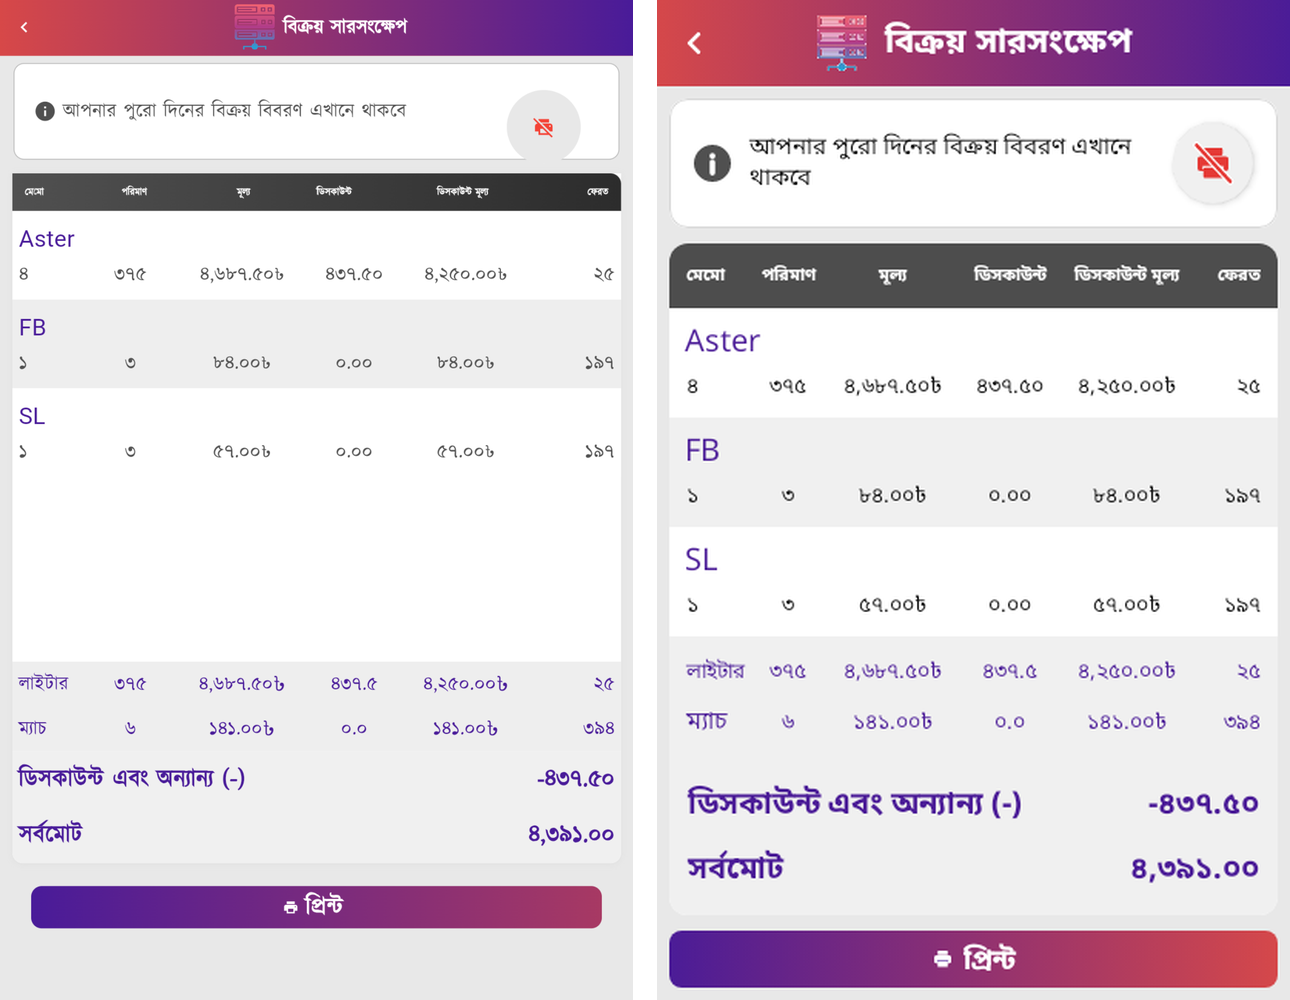
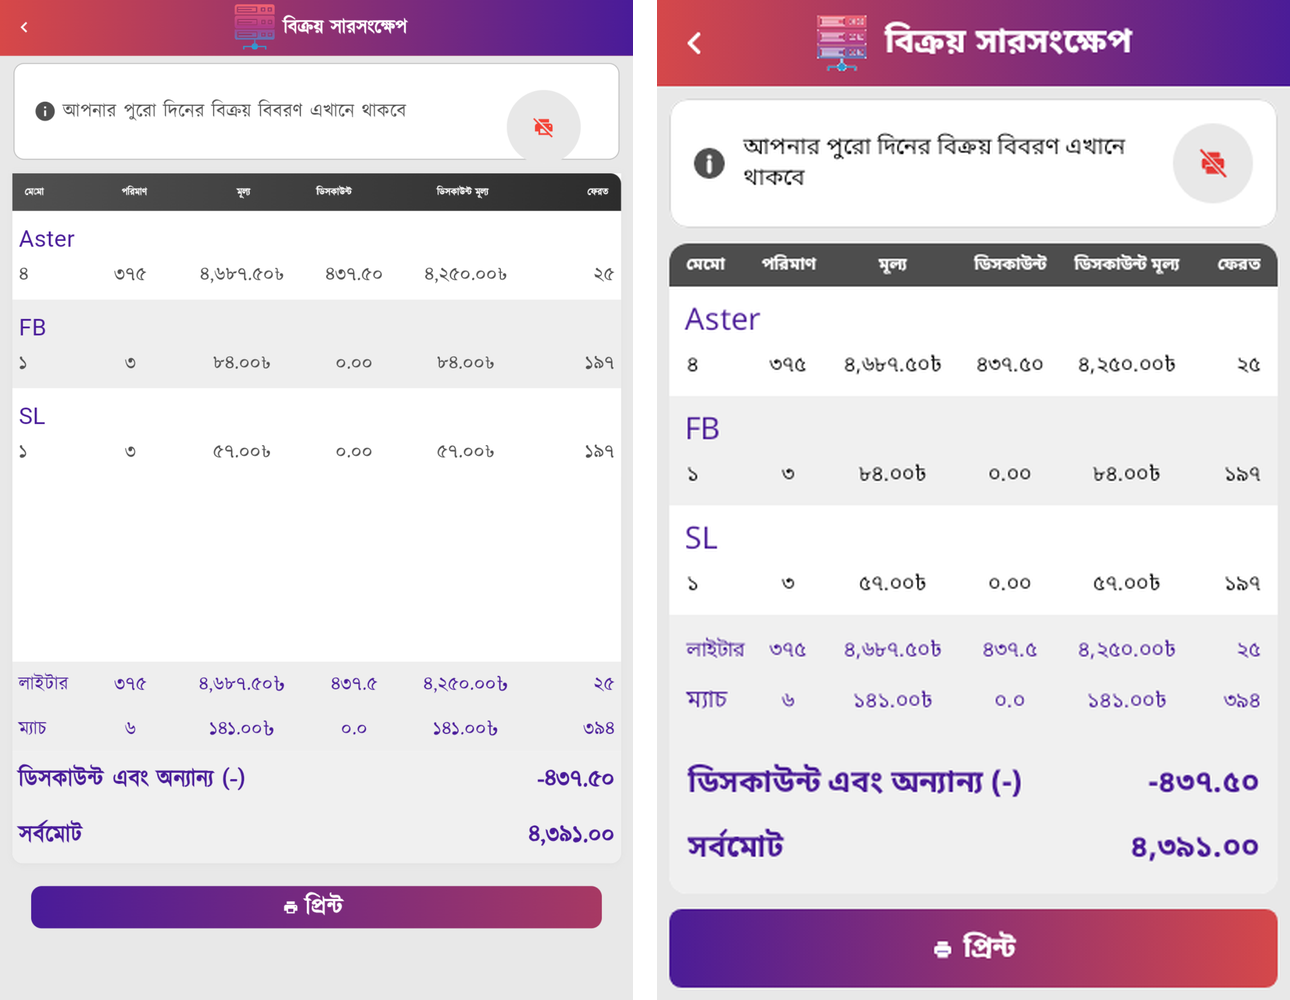
ui-kit: flat in-card printer badge and tighter summary header, as on sr/summary.png
AronPrinterBadge draws its flat grey form with a 20 dp printer when it sits in AronInfoCard's trailing slot
(automatic through a private composition local; no screen change). AronInfoCard "i" 20 dp. SummaryTable header
row padding 7 dp (about 25 units on the reference). Evidence rebuilt; sale-select scale note logged.

Claude-Session: https://claude.ai/code/session_012DWzsWtYJkEcYzFUUfg1sn

diff --git a/android/core-ui/src/main/kotlin/com/aktcl/aron/core/ui/aron/Chrome.kt b/android/core-ui/src/main/kotlin/com/aktcl/aron/core/ui/aron/Chrome.kt
@@ -31,6 +31,8 @@ import androidx.compose.foundation.shape.CircleShape
 import androidx.compose.foundation.shape.RoundedCornerShape
 import androidx.compose.material3.Text
 import androidx.compose.runtime.Composable
+import androidx.compose.runtime.CompositionLocalProvider
+import androidx.compose.runtime.staticCompositionLocalOf
 import androidx.compose.ui.Alignment
 import androidx.compose.ui.Modifier
 import androidx.compose.ui.draw.clip
@@ -143,24 +145,31 @@ fun AronTopBar(
 
 /**
  * The printer state at the end of the top bar (sr/stock.webp): a light round badge with a red crossed printer while no printer is
- * connected, a purple printer once one is. [label] is the TalkBack text of the state; tapping it opens the connect flow.
+ * connected, a purple printer once one is. [label] is the TalkBack text of the state; tapping it opens the connect flow. Inside an
+ * [AronInfoCard] it is drawn flat, grey and with a smaller printer, as on sr/summary.png.
  */
 @Composable
 fun AronPrinterBadge(connected: Boolean, label: String, onClick: () -> Unit, modifier: Modifier = Modifier) {
     val look = LocalAronLook.current
+    val inCard = LocalBadgeInCard.current
     Box(
         modifier
             .size(AronLook.Touch + 4.dp)
-            .shadow(3.dp, CircleShape)
+            .then(if (inCard) Modifier else Modifier.shadow(3.dp, CircleShape))
             .clip(CircleShape)
-            .background(look.rowAlt)
+            .background(if (inCard) look.page else look.rowAlt)
             .clickable(role = Role.Button, onClick = onClick)
             .semantics { contentDescription = label },
         contentAlignment = Alignment.Center,
     ) {
-        GlyphCanvas(Modifier.size(28.dp)) { printer(if (connected) look.printerOn else look.printerOff, crossed = !connected, gap = look.card) }
+        GlyphCanvas(Modifier.size(if (inCard) 20.dp else 28.dp)) {
+            printer(if (connected) look.printerOn else look.printerOff, crossed = !connected, gap = if (inCard) look.page else look.card)
+        }
     }
 }
+
+/** True inside [AronInfoCard]'s trailing slot: [AronPrinterBadge] draws its flat in-card form there. */
+private val LocalBadgeInCard = staticCompositionLocalOf { false }
 
 /**
  * The screen frame (PARITY-SPEC s2.2): the [topBar], the content on the light grey `aron.page` (white for the Home grid: [home]),
@@ -344,11 +353,11 @@ fun AronInfoCard(text: String, modifier: Modifier = Modifier, trailing: (@Compos
         modifier.fillMaxWidth().clip(shape).background(look.card).border(1.dp, look.underline.copy(alpha = 0.4f), shape).padding(16.dp),
         verticalAlignment = Alignment.CenterVertically,
     ) {
-        Box(Modifier.size(24.dp).clip(CircleShape).background(look.inkMuted), contentAlignment = Alignment.Center) {
-            GlyphCanvas(Modifier.size(24.dp)) { info(Color.White) }
+        Box(Modifier.size(20.dp).clip(CircleShape).background(look.inkMuted), contentAlignment = Alignment.Center) {
+            GlyphCanvas(Modifier.size(20.dp)) { info(Color.White) }
         }
         Text(text, style = lookStyle(15.sp, color = look.ink), modifier = Modifier.weight(1f).padding(horizontal = 12.dp))
-        trailing?.invoke()
+        if (trailing != null) CompositionLocalProvider(LocalBadgeInCard provides true) { trailing() }
     }
 }
 

diff --git a/android/core-ui/src/main/kotlin/com/aktcl/aron/core/ui/aron/Tables.kt b/android/core-ui/src/main/kotlin/com/aktcl/aron/core/ui/aron/Tables.kt
@@ -255,7 +255,8 @@ fun SummaryTable(
     val n = headers.size
     val w = weights ?: if (n == SummaryWeights6.size) SummaryWeights6 else List(n) { 1f }
     Column(modifier.fillMaxWidth().clip(RoundedCornerShape(AronLook.CardRadius)).background(look.card)) {
-        Row(Modifier.fillMaxWidth().background(look.tableHeader).padding(horizontal = 10.dp, vertical = 14.dp), verticalAlignment = Alignment.CenterVertically) {
+        // header row about 25 units tall on sr/summary.png: 7 dp padding keeps two-line headers inside 48 dp
+        Row(Modifier.fillMaxWidth().background(look.tableHeader).padding(horizontal = 10.dp, vertical = 7.dp), verticalAlignment = Alignment.CenterVertically) {
             headers.forEachIndexed { i, h ->
                 FitText(h, lookStyle(11.sp, bold = true, color = Color.White, align = cellAlign(i, n)), 7.sp, Modifier.weight(w[i]).padding(horizontal = 1.dp), maxLines = 2)
             }

diff --git a/docs/status/ui-parity-ui-kit.md b/docs/status/ui-parity-ui-kit.md
@@ -5,7 +5,8 @@
 - **Container:** the SDK is not baked in; install it with `sdkmanager --sdk_root=/opt/android-sdk "platforms;android-37.0" "build-tools;37.0.0" "platform-tools"` (cmdline-tools zip from dl.google.com), `local.properties` sdk.dir=/opt/android-sdk.
 - **Evidence:** `python3 tools/ui-kit/parity_evidence.py [stock ...]` rebuilds docs/evidence/ui-parity/kit-*.png from the KitParityShot captures (reference left, kit right, 1000 px high).
 - **Scale note (fidelity):** measured on sr/stock.webp scaled to 411 units, the reference's elements are about 0.6 to 0.75 of the PARITY-SPEC dp values (minus 21 units vs 36 dp, top bar 36 vs 56): the reference phone runs a smaller display size. The kit keeps the spec's dp sizes (48 dp targets, legible Bangla on 360 dp phones) and matches proportions, weights and layout within them.
-- **Fidelity log:** PackCard: SKU code medium weight (reference stroke/cap 0.12 = Medium, was Bold), quantity and stock figures bold, quantity field grows from 48 dp (360 dp phones, unchanged) to 96 dp at 411 dp so the underline fills minus-to-plus as on the reference; PackListHeader follows. TotalsPanel rows tighter (line height 1.25 x size); button Save/Print glyphs 13/15 dp (0.6 of the label as on stock.webp). Tiles: radius 6 dp (measured about 5 units on home-1-tiles and outlet-menu, the 12 dp was too round); menu tiles (outlet-menu.png): picture 78 % of the tile width (max 96 dp), new optional `AronTileGrid(gap = AronMenuGap)` = 16 dp (17 units on the reference). AronHomeHeader: title and subtitle medium (not bold), avatar 44 dp, gear 30 dp, padding 12/22 dp (the avatar sits above the middle as on the reference).
+- **Fidelity log:** PackCard: SKU code medium weight (reference stroke/cap 0.12 = Medium, was Bold), quantity and stock figures bold, quantity field grows from 48 dp (360 dp phones, unchanged) to 96 dp at 411 dp so the underline fills minus-to-plus as on the reference; PackListHeader follows. TotalsPanel rows tighter (line height 1.25 x size); button Save/Print glyphs 13/15 dp (0.6 of the label as on stock.webp). Tiles: radius 6 dp (measured about 5 units on home-1-tiles and outlet-menu, the 12 dp was too round); menu tiles (outlet-menu.png): picture 78 % of the tile width (max 96 dp), new optional `AronTileGrid(gap = AronMenuGap)` = 16 dp (17 units on the reference). AronHomeHeader: title and subtitle medium (not bold), avatar 44 dp, gear 30 dp, padding 12/22 dp (the avatar sits above the middle as on the reference). AronPrinterBadge inside AronInfoCard is flat grey with a 20 dp printer (summary.png; automatic, no screen change); AronInfoCard "i" 20 dp; SummaryTable header row 7 dp padding (about 25 units on the reference).
+- **Left as is (scale, not a defect):** LetterFilterBar fits 12 letters a row on sale-select.png (29-unit pitch); 48 dp targets allow 7 to 8. Retailer field, title bar height and table header text are likewise smaller on the reference by the same 0.6 to 0.75 factor.
 - **Told the screens:** ui-sr-b: use `gap = AronMenuGap` and `Modifier.padding(AronMenuGap)` on Outlet-type menus. ui-sr-a: on sr/stock.webp the Print button is grey with a DARK label while the printer is off (AronSecondaryButton enabled = true, tap to connect), and the Home subtitle date shows Latin digits.
 
 ## HANDOVER from session 1 (2026-10-18 23:20 UTC)
@@ -32,7 +33,7 @@ What still differs (kit level): packshots show the grey silhouette until ui-pack
 | TotalsPanel | stock.webp | DONE; rows tightened to the reference pitch (session 2) | kit skeleton |
 | AronPrimaryButton / AronSecondaryButton / AronPlus / AronMinus | stock.webp, summary.png | DONE | kit skeleton |
 | RetailerPicker + LetterFilterBar | sale-select.png | DONE | kit skeleton |
-| SummaryTable | summary.png | DONE | kit skeleton |
+| SummaryTable | summary.png | DONE; header row tightened (session 2) | kit skeleton |
 | Icons Home: attendance, stock, sale, memo, summary, sales_submit, outlet, tutorial, task_delegation, photo_capture, sales_journey, kpi (`R.drawable.aron_ic_*`) | home-1-tiles.webp | DONE as redrawn line art with the pink-purple-blue gradient; PARTIAL against the photo-real camera and the hands-with-stars art (Astha and loyalty tiles are deferred, docs/27: no icon) | icons push |
 | Icons Outlet menu: outlet_new, outlet_close, outlet_edit, cluster | outlet-menu.png | DONE; PARTIAL: the close sign has an X, not the word CLOSE (no text in art: Bangla-first); cluster is pink-blue, the reference is flat blue | icons push |
 | Shared: aron_ic_back, aron_ic_gear, aron_ic_printer, aron_ic_printer_off | stock.webp, home-1-tiles.webp | DONE (the kit itself draws these on Canvas; drawables are for screens) | icons push |
